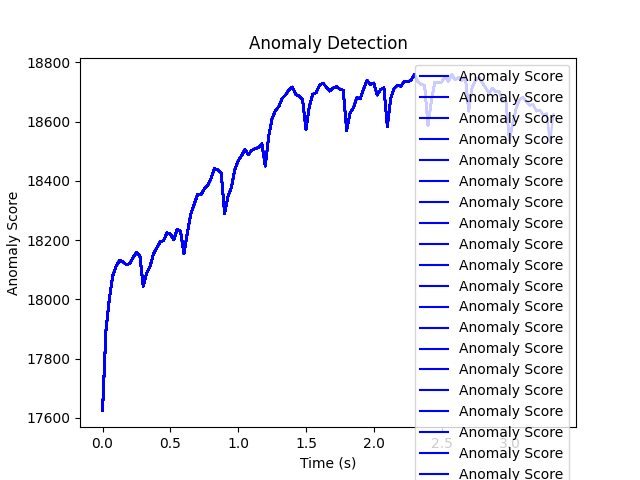
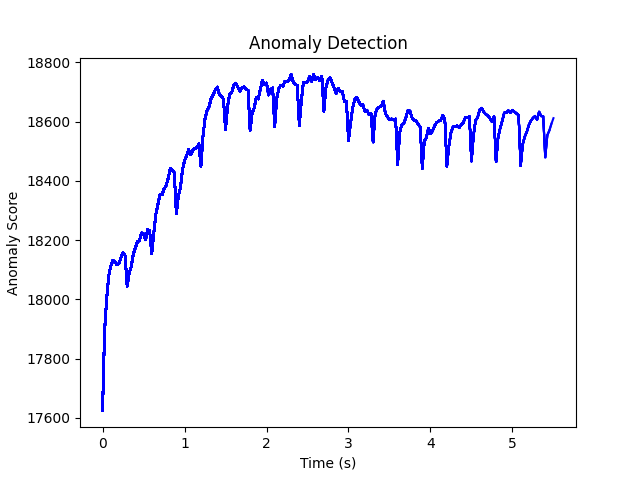
anomaly analysis

diff --git a/inference.py b/inference.py
@@ -63,7 +63,7 @@ class Inference():
             # Update the output JSON
             self.update_json_with_timestamp(output_json, timestamps[-1], error)
             self.plot_anomaly_scores(timestamps, anomaly_scores,plot_path)
-            self.detect_anomalies(output_json, 5, 2.0,anomalies_path)
+            # self.detect_anomalies(output_json, 5, 2.0,anomalies_path)
 
 
         cap.release()
@@ -82,35 +82,39 @@ class Inference():
         with open(output_json, 'w') as f:
             json.dump(data, f)
 
-    def detect_anomalies(self,json_path, window_size, threshold,anomalies_path):
-        with open(json_path, 'r') as f:
-            data = json.load(f)
-        
-        timestamps = list(map(float, data.keys()))
-        scores = list(data.values())
-        
-        # Calculate Z-scores
-        rolling_mean = np.convolve(scores, np.ones(window_size)/window_size, mode='valid')
-        rolling_std = np.std([scores[i:i+window_size] for i in range(len(scores)-window_size+1)], axis=1)
-        z_scores = (scores[window_size-1:] - rolling_mean) / rolling_std
-        
-        anomalies = []
-        
-        # Find timestamps with high Z-scores
-        for i, z_score in enumerate(z_scores):
-            if z_score > threshold:
-                anomaly_period = timestamps[i:i+window_size]
-                anomalies.append(anomaly_period)
+    # def detect_anomalies(self, json_path, window_size, threshold, anomalies_path):
+    #     with open(json_path, 'r') as f:
+    #         data = json.load(f)
 
-        with open(anomalies_path, 'w') as f:
-            json.dump(anomalies, f)
+    #     timestamps = list(map(float, data.keys()))
+    #     scores = list(data.values())
+
+    #     if len(scores) < window_size:
+    #         print(f'Not enough data points for window size {window_size}. Skipping detection.')
+    #         return []
+
+    #     rolling_mean = np.convolve(scores, np.ones(window_size) / window_size, mode='valid')
+    #     rolling_std = np.std([scores[i:i+window_size] for i in range(len(scores) - window_size + 1)], axis=0)
+    #     z_scores = (scores[window_size-1:] - rolling_mean) / rolling_std
+
+    #     anomalies = []
+
+    #     for i, z_score in enumerate(z_scores):
+    #         if z_score > threshold:
+    #             anomaly_period = timestamps[i:i+window_size]
+    #             anomalies.append(anomaly_period)
+
+    #     with open(anomalies_path, 'w') as f:
+    #         json.dump(anomalies, f)
+
+    #     return anomalies
+
 
     def plot_anomaly_scores(self,timestamps, anomaly_scores, save_path):
         plt.plot(timestamps, anomaly_scores, label='Anomaly Score', color='blue')
         plt.xlabel('Time (s)')
         plt.ylabel('Anomaly Score')
         plt.title('Anomaly Detection')
-        plt.legend()
         plt.savefig(save_path)  
 
     
@@ -119,9 +123,9 @@ model = Autoencoder()
 model.load_state_dict(torch.load('models/anomaly_detector.pth', map_location='cpu'))  # Load on CPU
 model.eval()
 
-video_path = 'videos/x.mp4'
-output_json = 'results/output.json'
-plot_path = 'results/plot.png'
+video_path = 'data/anomaly/theftPick.avi'
+output_json = 'results/output2.json'
+plot_path = 'results/plot2.png'
 anomalies_path = 'results/anomalies.json'
 
 inf = Inference()

diff --git a/detect_anomalies.py b/detect_anomalies.py
@@ -1,0 +1,42 @@
+import json
+import numpy as np
+from collections import defaultdict
+
+def update_heightened_periods(json_path, window_size, min_duration, max_duration, top_k):
+    with open(json_path, 'r') as f:
+        data = json.load(f)
+    
+    timestamps = list(map(float, data.keys()))
+    scores = list(data.values())
+
+    heightened_periods = defaultdict(float)
+    max_heightened_score = 0.0
+    start_time = 0
+
+    for i in range(len(scores)):
+        if i - window_size >= 0:
+            avg_score = np.mean(scores[i-window_size+1:i+1])
+            heightened_periods[(start_time, timestamps[i])] = avg_score
+            max_heightened_score = max(max_heightened_score, avg_score)
+
+        if scores[i] > max_heightened_score:
+            start_time = timestamps[i]
+            max_heightened_score = scores[i]
+
+    sorted_periods = sorted(heightened_periods.items(), key=lambda x: x[1], reverse=True)
+    filtered_periods = [(start, end, score) for (start, end), score in sorted_periods 
+                        if end - start >= min_duration and end - start <= max_duration]
+    
+
+    return filtered_periods[:top_k]
+
+json_path = 'results/output2.json'
+window_size = 3  
+min_duration = 3  
+max_duration = 4  
+top_k = 10
+sorted_heightened_periods = update_heightened_periods(json_path, window_size, min_duration, max_duration, top_k)
+
+print(f"Top {top_k} Heightened Periods:")
+for i, (start, end, score) in enumerate(sorted_heightened_periods, 1):
+    print(f"{i}. Start time: {start} s, End time: {end} s, Score: {score}")
